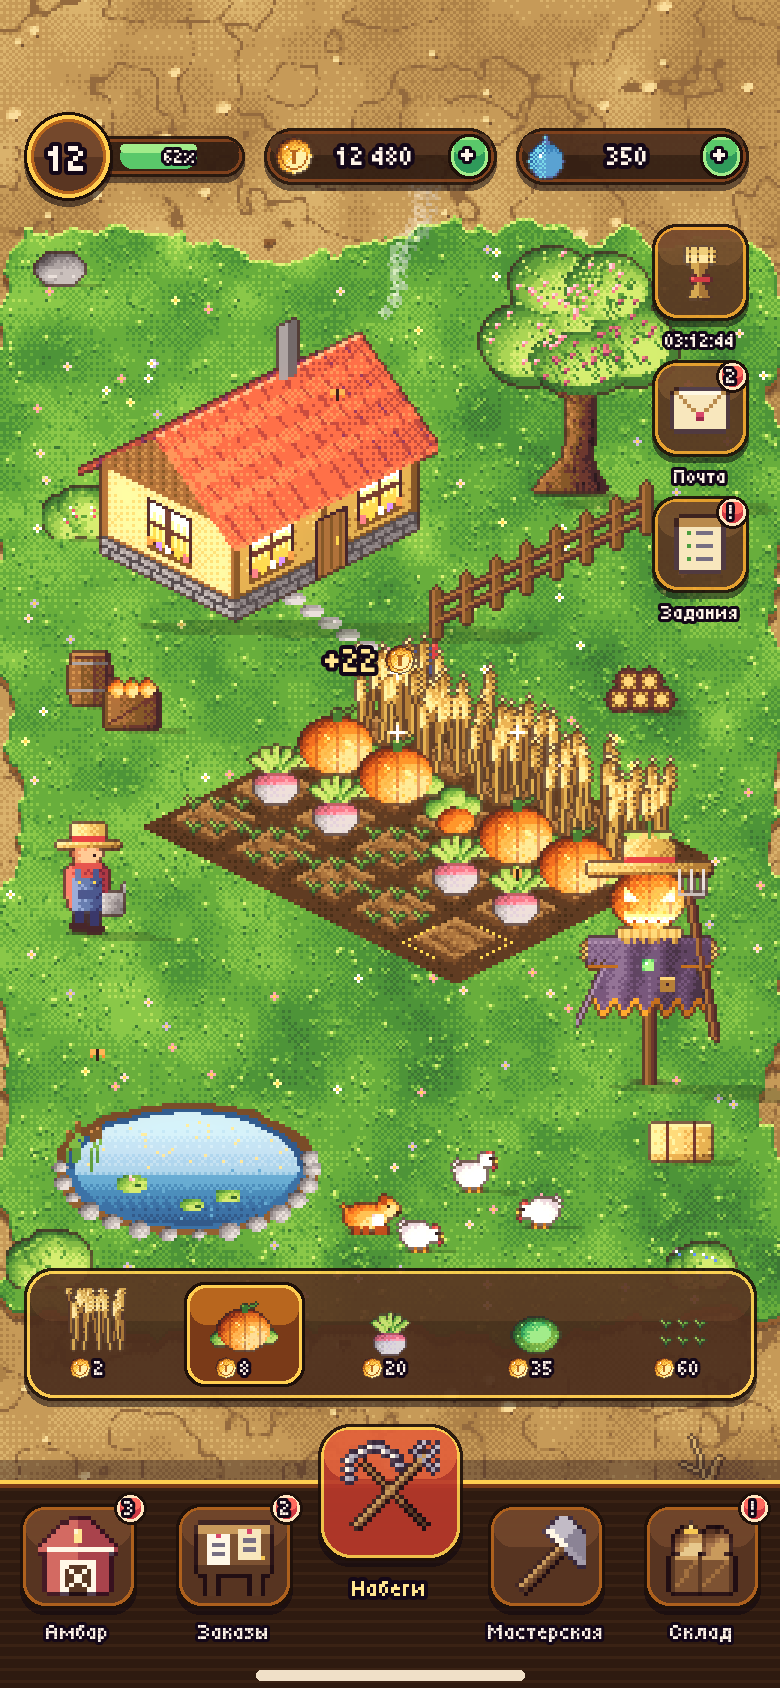
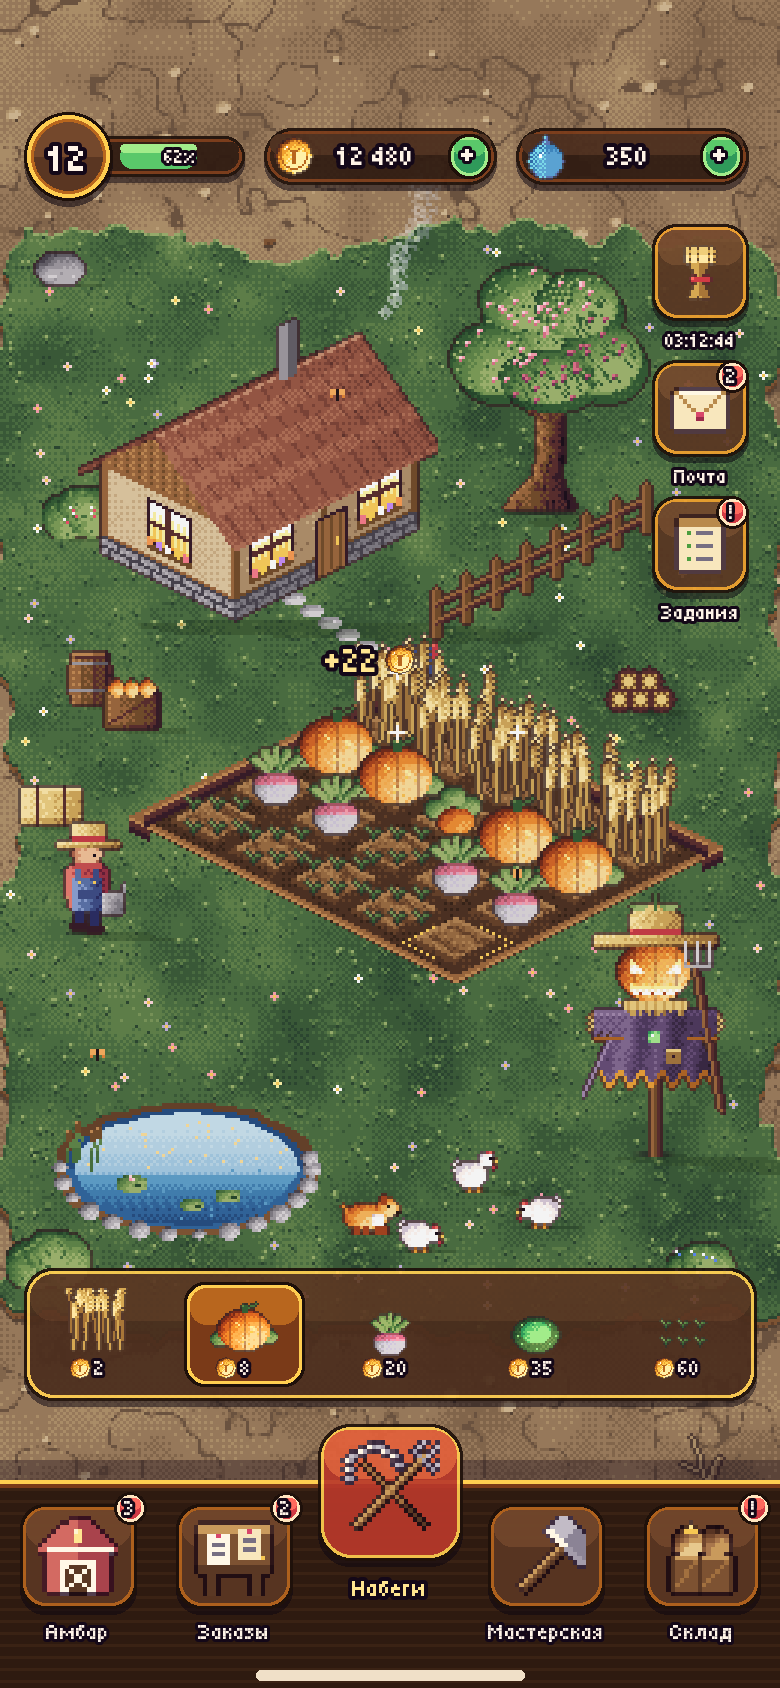
art: iso frame v2, calmer palette and a plank frame around the field
Claude-Session: https://claude.ai/code/session_01QX4WGR94dByJemKKg5xUTs

diff --git a/art/hd/frame_iso.py b/art/hd/frame_iso.py
@@ -9,10 +9,21 @@ from PIL import Image, ImageChops, ImageFilter
 
 TW, TH = 40, 20
 
+# calmer daylight: less saturated greens, earthier roof and soil
+SOFT = {
+    "grass": ["#22382a", "#2c4a31", "#3a5e38", "#4b7240", "#5f8548", "#7a9a56", "#9cb46a"],
+    "dust": ["#5a4434", "#725640", "#8a6a4c", "#a07e5a", "#b49268", "#c6a67a", "#d6ba90"],
+    "roof": ["#2e1c1e", "#4a2624", "#66342c", "#844436", "#a05842", "#b87054", "#cc8e6e"],
+    "leaf": ["#1c3424", "#264a2c", "#335e34", "#47743c", "#5e8a46", "#7ca054", "#a0b86a"],
+    "wall": ["#4a3428", "#6e5038", "#927050", "#b49068", "#cfae82", "#e2c89e"],
+}
+
 
 def main():
     from . import game as G
     G.setup()
+    from . import palette as P
+    P.RAMPS.update(SOFT)
     from . import frame as F
     from . import objects as O
     from . import props as Pr
@@ -53,6 +64,23 @@ def main():
             ok, u, v = in_diamond(x + 0.5, y + 0.5, 0, 0, cols, rows, 0.12)
             if ok:
                 put(im, x, y, ramp_d("soil", 0.16 + fbm(x, y, 7, 6, 2) * 0.1, x, y))
+    wdr = R["wood"]
+    band = set()
+    for y in range(OY - 24, OY + (cols + rows) * TH // 2 + 24):
+        for x in range(OX - rows * TW // 2 - 24, OX + cols * TW // 2 + 24):
+            ok_out, u, v = in_diamond(x + 0.5, y + 0.5, 0, 0, cols, rows, 0.26)
+            ok_in, _, _ = in_diamond(x + 0.5, y + 0.5, 0, 0, cols, rows, 0.12)
+            if ok_out and not ok_in:
+                band.add((x, y))
+    for (x, y) in band:  # plank tops, lit on the back edges
+        back = (x, y + 1) in band or (x, y + 2) in band
+        put(im, x, y - 3, wdr[5] if not back and (x + y) % 9 else wdr[4])
+    for (x, y) in band:  # front faces under the front edges
+        if (x, y + 1) not in band:
+            ok_in, u, v = in_diamond(x + 0.5, y - 4.5, 0, 0, cols, rows, 0.12)
+            if not ok_in:
+                for k in range(-2, 2):
+                    put(im, x, y + k, wdr[2] if k < 0 else wdr[1])
     for r in range(rows):
         for c in range(cols):
             for y in range(OY - 4, OY + (cols + rows) * TH // 2 + 4):
@@ -201,15 +229,15 @@ def main():
     fz = iso_fence(7)
     add(fz, 142, 214, shadow=False, ao=0)
 
-    add(O.blossom_tree(), 150, 166, ao=28)
-    add(O.scarecrow(), 192, 362, ao=14)
+    add(O.blossom_tree(), 140, 172, ao=28)
+    add(O.scarecrow(), 194, 386, ao=14)
     add(O.farmer(1), 16, 312, ao=14)
     for (x, y, f, fl) in ((150, 398, 0, False), (172, 410, 1, True), (132, 418, 1, False)):
         add(O.hen(f, fl), x, y, ao=10)
     add(Pr.barrel(), 22, 236, ao=12)
     add(Pr.crate(), 34, 244, ao=16)
     add(Pr.mailbox(), 132, 238, ao=8)
-    add(Pr.hay_bale(), 216, 388, ao=18)
+    add(Pr.hay_bale(), 6, 276, ao=18)
     add(Pr.log_pile(), 200, 238, ao=20)
     add(Pr.dog(0), 112, 412, ao=16)
     add(Pr.bush(30, 20, 3), 2, 430, ao=22)
@@ -267,9 +295,9 @@ def main():
     canvas = Image.new("RGBA", (390 * F.K, 844 * F.K))
     canvas.alpha_composite(screen, (0, (844 * F.K - screen.height) // 2))
     base = canvas.convert("RGB")
-    base = ImageChops.add(base, Image.new("RGB", base.size, (14, 10, 0)))
-    bright = base.point(lambda v: max(0, v - 225) * 2)
-    base = ImageChops.add(base, bright.filter(ImageFilter.GaussianBlur(8)).point(lambda v: int(v * 0.4)))
+    from PIL import ImageEnhance
+    base = ImageEnhance.Color(base).enhance(0.9)
+    base = ImageEnhance.Brightness(base).enhance(0.96)
     canvas = base.convert("RGBA")
     F.hud_parts(canvas)
     out = canvas.convert("RGB")
